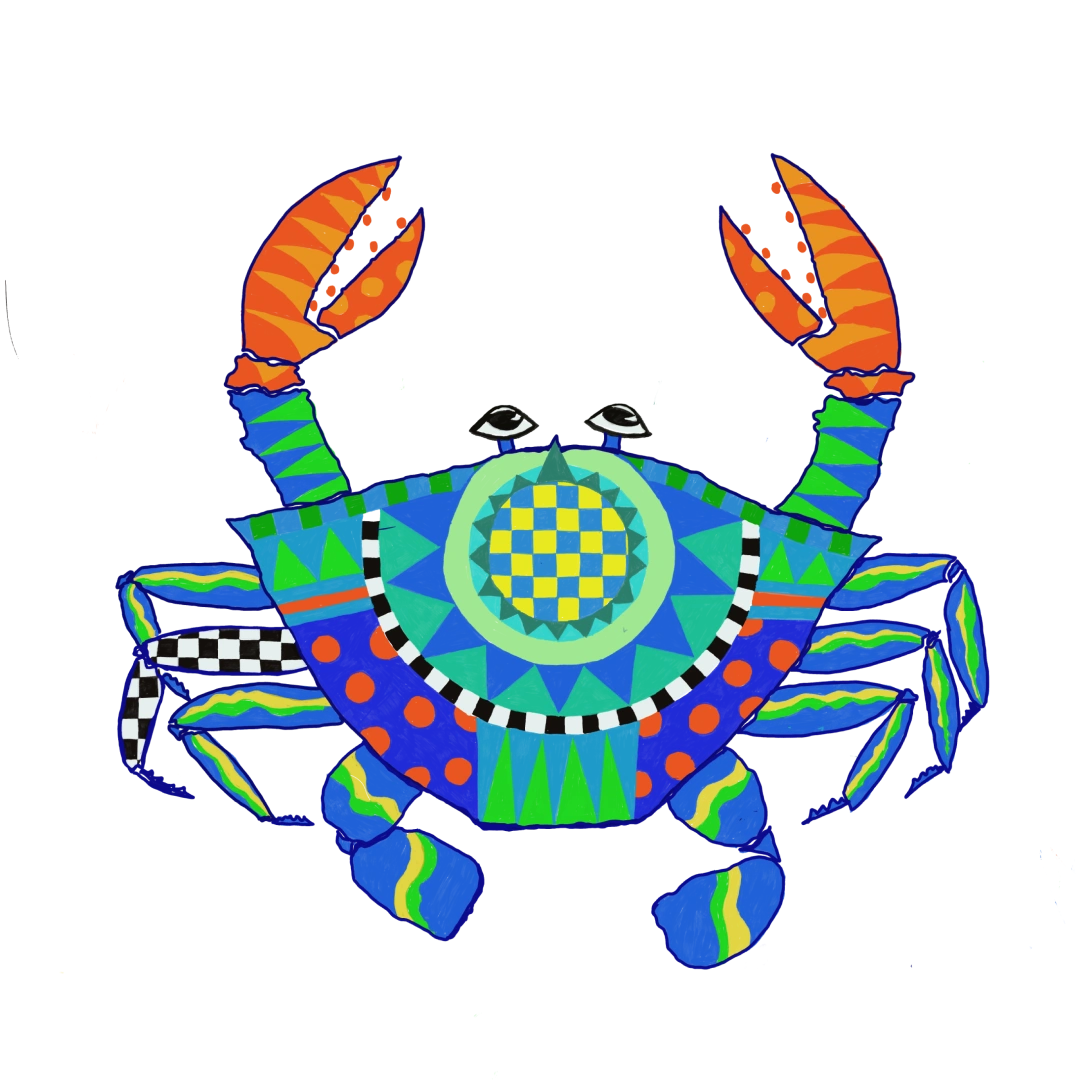
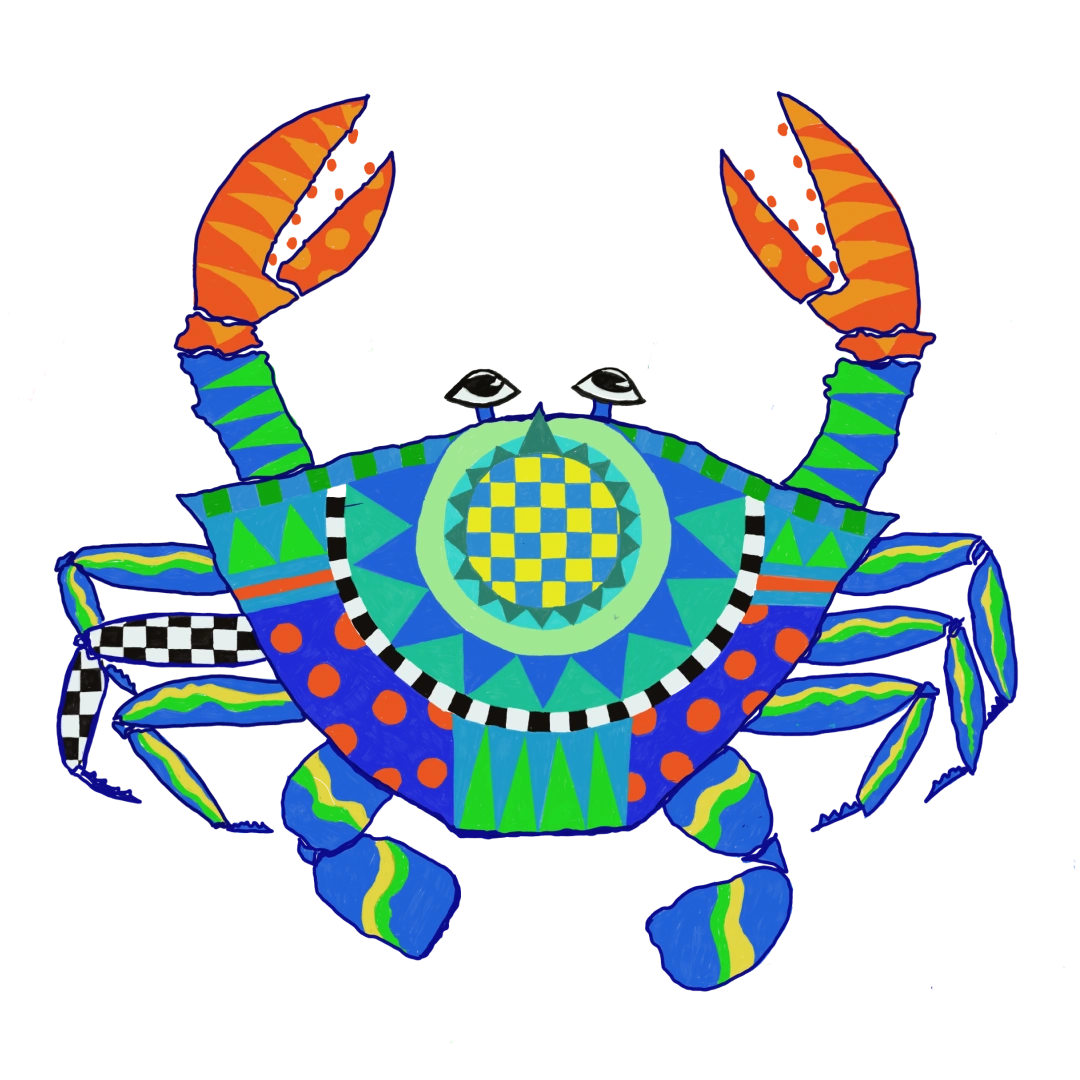
config: canonical URL is www.gpmceramics.com

diff --git a/src/lib/site.ts b/src/lib/site.ts
@@ -25,8 +25,8 @@ export const site = {
   // PLACEHOLDER — where commission inquiries are emailed. Also shown in footer.
   email: "hello@georgiaperkinspottery.com",
 
-  // PLACEHOLDER — canonical site URL (set NEXT_PUBLIC_SITE_URL in prod).
-  url: process.env.NEXT_PUBLIC_SITE_URL ?? "https://georgiaperkinspottery.com",
+  // Canonical production URL — the apex 308s to www.
+  url: process.env.NEXT_PUBLIC_SITE_URL ?? "https://www.gpmceramics.com",
 
   // PLACEHOLDER social links (empty string hides the link).
   social: {
